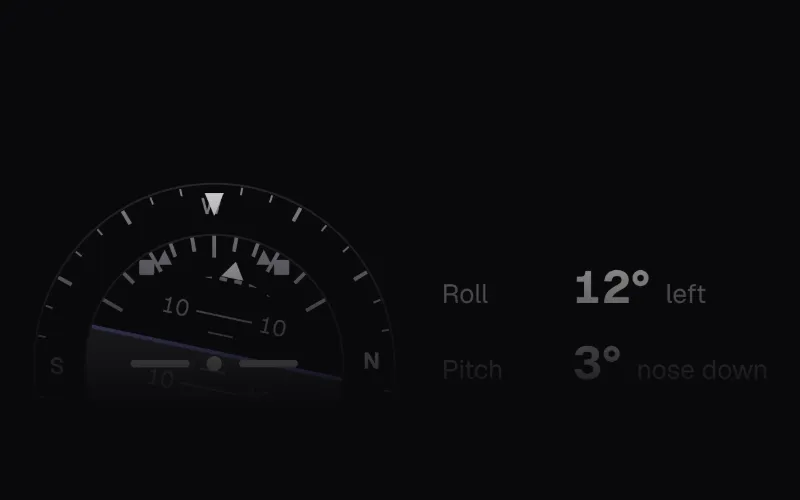
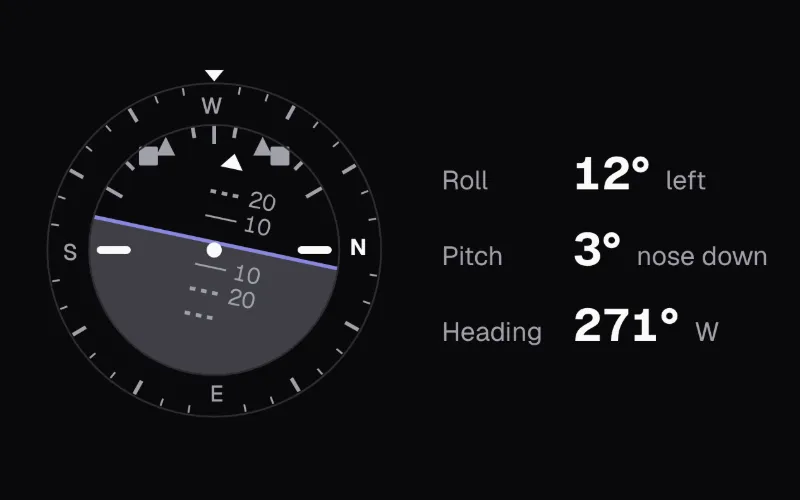
fix(attitude): clean up the attitude indicator's drawing
- Pitch ladder: rungs every 10°, numbers only on ±10 and ±20, past each
  rung's right end so they never lie on a line; no 5° ticks. The ladder sits
  on its own inner disc, clipped in the frame's coordinates, clear of the bank
  scale; the robot's wings moved out to the ring between the ladder and the
  disc's edge, so no rung or number runs under them. Pitch limits are dashed
  rungs that take the tone's colour once crossed (no mark on the sliding
  ladder, where the disc would cut it).
- Heading: the fixed mark sits above the compass ring, and the letters sit
  inside the ticks, so the letter under the mark is never covered.
- Bank limits: the kit's triangle and square at 10 px (12 px at lg) on the
  disc's edge, grey until crossed; bank ticks within 7° of a limit make way.
- AttitudeDefault takes args (roll, pitch, heading, size), so any pose can be
  opened from the URL to check the drawing.

Claude-Session: https://claude.ai/code/session_01UjpnacZoWQW5a3YFwQexEH

diff --git a/registry/syncrobotic/ui/attitude.tsx b/registry/syncrobotic/ui/attitude.tsx
@@ -410,10 +410,31 @@ export type AttitudeIndicatorProps = {
 type AttitudeReading = { roll: number | undefined; pitch: number | undefined; heading: number | undefined }
 
 const INSTRUMENT_PX = { md: 192, lg: 256 } as const
-/** Pitch shown either side of the horizon's centre: the disc's radius is this many degrees. */
-const PITCH_SPAN = 35
 const ROLL_TICKS = [-60, -45, -30, -20, -10, 0, 10, 20, 30, 45, 60]
-const LADDER = [-80, -70, -60, -50, -40, -30, -20, -10, -5, 5, 10, 20, 30, 40, 50, 60, 70, 80]
+/** Rungs every 10°; only ±10 and ±20 carry a number, the ones read most. */
+const LADDER = [-80, -70, -60, -50, -40, -30, -20, -10, 10, 20, 30, 40, 50, 60, 70, 80]
+const LADDER_LABELLED = new Set([-20, -10, 10, 20])
+/** A bank tick this close to a limit gives the limit's mark its room. */
+const TICK_CLEARANCE = 7
+
+/**
+ * The instrument's geometry in CSS pixels, from the outside in (md: c 96, R 66, ladder 42):
+ * 8 px for the heading mark above the ring; the compass ring (ticks, then the letters inside them); the horizon disc,
+ * whose outer 24 px hold the bank scale, its limit marks and pointer, and the robot's wings; and the ladder's disc inside
+ * that, where the pitch rungs and their numbers live. `k` is px per degree of pitch, so the ±20° rungs and their numbers
+ * fit inside the ladder's disc when level.
+ */
+function instrumentGeometry(size: keyof typeof INSTRUMENT_PX) {
+  const px = INSTRUMENT_PX[size]
+  const c = px / 2
+  const ring = c - 8
+  const R = c - 30
+  const ladder = R - 24
+  // The limit marks on the bank scale, about the kit's 12 px status glyph: big enough to read, placed on the disc's edge so a
+  // warning and a critical limit 10° apart (the patrol dog's 25° and 35°) stay two shapes at md.
+  const mark = size === "lg" ? 12 : 10
+  return { px, c, ring, R, ladder, k: ladder / 32, mark }
+}
 
 const axisTone = (v: number | undefined, limit: AttitudeLimit | undefined): MeterTone =>
   v === undefined || !limit ? "normal" : meterTone(Math.abs(v), { low: limit.warning, critical: limit.critical, higherIsWorse: true })
@@ -491,7 +512,7 @@ export function AttitudeIndicator({
   const svgRef = React.useRef<SVGSVGElement>(null)
   const compassG = React.useRef<SVGGElement>(null)
   React.useEffect(() => {
-    const k = (INSTRUMENT_PX[size] / 2 - 28) / PITCH_SPAN
+    const { k } = instrumentGeometry(size)
     const draw = (v: AttitudeReading) => {
       const svg = svgRef.current
       if (!svg) return
@@ -552,12 +573,10 @@ export function AttitudeIndicator({
   const staleText = stale ? `${l.stale}, ${l.lastUpdate(l.formatTime(new Date(stale.at), timeLocale))}` : ""
 
   // The drawing's geometry, in CSS pixels (the viewBox is the instrument's own size, so text is drawn at 12 px).
-  const px = INSTRUMENT_PX[size]
-  const c = px / 2
-  const R = c - 28
-  const k = R / PITCH_SPAN
+  const { px, c, ring, R, ladder, k, mark } = instrumentGeometry(size)
   const rollLimit = limits?.roll
   const pitchLimit = limits?.pitch
+  const rollMarks = [rollLimit?.warning, rollLimit?.critical].filter((v) => v !== undefined)
   // The drawing's transforms come from the props only: a pushed reading is drawn by the engine, and React leaves an
   // attribute alone while the prop behind it does not change, so the two never fight.
   const headingShown = heading ?? shown.heading
@@ -585,38 +604,35 @@ export function AttitudeIndicator({
         data-slot="attitude-instrument"
         className={cn("shrink-0", size === "lg" ? "size-64" : "size-48", stale && "opacity-50")}
       >
-        <svg ref={svgRef} aria-hidden="true" viewBox={`${-c} ${-c} ${px} ${px}`} className="size-full overflow-visible">
-          <Horizon
-            R={R}
-            k={k}
-            roll={roll}
-            pitch={pitch}
-            rollTone={rollTone}
-            pitchTone={pitchTone}
-            pitchLimit={pitchLimit}
-            locale={locale}
-          />
-          {/* The bank scale, fixed to the frame: the pointer on the horizon turns against it. Limits are the kit's status
-              shapes (a triangle for warning, a square for critical), coloured once the roll is past them. */}
+        <svg ref={svgRef} aria-hidden="true" viewBox={`${-c} ${-c} ${px} ${px}`} className="size-full">
+          <Horizon R={R} ladder={ladder} k={k} roll={roll} pitch={pitch} rollTone={rollTone} pitchTone={pitchTone} pitchLimit={pitchLimit} locale={locale} />
+          {/* The bank scale, fixed to the frame: the pointer on the horizon turns against it. Its limits are the kit's status
+              shapes at the glyph's size (a triangle for warning, a square for critical), grey until the roll is past them;
+              the ticks nearest a limit give it room. */}
           <g data-slot="attitude-roll-scale">
-            {ROLL_TICKS.filter((a) => !rollLimit || (Math.abs(a) !== rollLimit.warning && Math.abs(a) !== rollLimit.critical)).map((a) => {
+            {ROLL_TICKS.filter((a) => !rollMarks.some((m) => Math.abs(Math.abs(a) - m) < TICK_CLEARANCE)).map((a) => {
               const major = a % 30 === 0
               const p1 = polar(a, R)
-              const p2 = polar(a, R - (major ? 12 : 8))
+              const p2 = polar(a, R - (major ? 10 : 6))
               return <line key={a} x1={p1.x} y1={p1.y} x2={p2.x} y2={p2.y} strokeWidth={2} className="stroke-muted-foreground" />
             })}
-            {rollLimit?.warning !== undefined &&
-              [-1, 1].map((s) => {
-                const p = polar(s * rollLimit.warning!, R - 6)
-                return <LimitMark key={`w${s}`} x={p.x} y={p.y} kind="warning" on={rollTone !== "normal"} />
-              })}
-            {rollLimit?.critical !== undefined &&
-              [-1, 1].map((s) => {
-                const p = polar(s * rollLimit.critical!, R - 6)
-                return <LimitMark key={`c${s}`} x={p.x} y={p.y} kind="danger" on={rollTone === "danger"} />
-              })}
+            {(
+              [
+                ["warning", rollLimit?.warning],
+                ["danger", rollLimit?.critical],
+              ] as const
+            ).map(([kind, v]) =>
+              v === undefined
+                ? null
+                : [-1, 1].map((s) => {
+                    const p = polar(s * v, R - mark / 2 - 0.5)
+                    const on = kind === "danger" ? rollTone === "danger" : rollTone !== "normal"
+                    return <LimitMark key={`${kind}${s}`} x={p.x} y={p.y} kind={kind} on={on} size={mark} />
+                  }),
+            )}
           </g>
-          {/* The robot, fixed: wings and a centre dot in the ink, in the tone's colour past a limit. */}
+          {/* The robot, fixed: a centre dot and wings in the ring between the ladder and the disc's edge, so no rung or
+              number ever runs under them. In the ink, in the tone's colour past a limit. */}
           <g
             data-slot="attitude-robot"
             className={cn("stroke-foreground", worst === "warning" && "stroke-warning", worst === "danger" && "stroke-danger")}
@@ -624,12 +640,13 @@ export function AttitudeIndicator({
             strokeLinecap="round"
             fill="none"
           >
-            <path d={`M${-R * 0.62} 0H${-R * 0.22}M${R * 0.22} 0H${R * 0.62}`} />
+            <path d={`M${-(R - 6)} 0H${-(ladder + 4)}M${ladder + 4} 0H${R - 6}`} />
             <circle r={2} />
           </g>
-          {/* The compass ring: the card turns so the heading is under the mark at the top. */}
-          <circle r={c - 1} fill="none" strokeWidth={1} className="stroke-border" />
           <circle r={R} fill="none" strokeWidth={1} className="stroke-border" />
+          {/* The compass ring: the card turns so the heading is under the mark above the ring; the letters sit inside the
+              ticks and turn back to stay upright, and the mark never covers one. */}
+          <circle r={ring} fill="none" strokeWidth={1} className="stroke-border" />
           <g
             ref={compassG}
             data-slot="attitude-compass"
@@ -638,12 +655,12 @@ export function AttitudeIndicator({
           >
             {Array.from({ length: 36 }, (_, i) => i * 10).map((a) => {
               if (a % 90 === 0) return null
-              const p1 = polar(a, c - 2)
-              const p2 = polar(a, c - (a % 30 === 0 ? 10 : 6))
+              const p1 = polar(a, ring - 1)
+              const p2 = polar(a, ring - (a % 30 === 0 ? 9 : 5))
               return <line key={a} x1={p1.x} y1={p1.y} x2={p2.x} y2={p2.y} strokeWidth={a % 30 === 0 ? 2 : 1} className="stroke-muted-foreground" />
             })}
             {cardinal.map((name, i) => {
-              const p = polar(i * 90, c - 13)
+              const p = polar(i * 90, ring - 12)
               return (
                 <text
                   key={i}
@@ -662,7 +679,7 @@ export function AttitudeIndicator({
           </g>
           <path
             data-slot="attitude-lubber"
-            d={`M0 ${-(c - 18)}L5 ${-(c - 6)}H-5Z`}
+            d={`M0 ${-(ring + 1)}L5 ${-(c - 1)}H-5Z`}
             visibility={headingShown === undefined ? "hidden" : undefined}
             className="fill-foreground"
           />
@@ -700,11 +717,13 @@ export function AttitudeIndicator({
 
 /**
  * The moving part, in two layers that turn and slide together: the ground and the horizon line on the whole disc, with the
- * bank pointer; and the pitch ladder with its limit lines on a smaller disc inside it, so the ladder never runs into the
- * bank scale. Each layer is clipped in the frame's coordinates, outside its own transforms.
+ * bank pointer; and the pitch ladder with its limit lines on a smaller disc inside it, clear of the bank scale and the
+ * robot's wings. Each layer is clipped in the frame's coordinates, outside its own transforms. A rung's number sits past
+ * its right end, so it never lies on a line, and a pitch limit is a dashed rung.
  */
 function Horizon({
   R,
+  ladder,
   k,
   roll,
   pitch,
@@ -714,6 +733,7 @@ function Horizon({
   locale,
 }: {
   R: number
+  ladder: number
   k: number
   roll: number | undefined
   pitch: number | undefined
@@ -729,6 +749,8 @@ function Horizon({
   const far = R * 6
   const rollAt = `rotate(${-(roll ?? 0)})`
   const pitchAt = `translate(0 ${-clampPitch(pitch ?? 0) * k})`
+  const w = ladder * 0.2
+  const limitsAt = [pitchLimit?.warning, pitchLimit?.critical]
   return (
     <>
       <defs>
@@ -736,7 +758,7 @@ function Horizon({
           <circle r={R} />
         </clipPath>
         <clipPath id={inner}>
-          <circle r={R - 22} />
+          <circle r={ladder} />
         </clipPath>
       </defs>
       <g clipPath={`url(#${disc})`}>
@@ -747,10 +769,10 @@ function Horizon({
             {/* The horizon: the one accent, the mark to read. */}
             <line data-slot="attitude-horizon" x1={-far} x2={far} y1={0} y2={0} strokeWidth={2} style={{ stroke: "var(--chart-1)" }} />
           </g>
-          {/* The bank pointer turns with the horizon and points at the scale. */}
+          {/* The bank pointer turns with the horizon and points at the scale, inside the limit marks. */}
           <path
             data-slot="attitude-roll-pointer"
-            d={`M0 ${-(R - 13)}L6 ${-(R - 22)}H-6Z`}
+            d={`M0 ${-(R - 14)}L6 ${-(R - 22)}H-6Z`}
             className={cn("fill-foreground", rollTone === "warning" && "fill-warning", rollTone === "danger" && "fill-danger")}
           />
         </g>
@@ -759,29 +781,21 @@ function Horizon({
         <g data-slot="attitude-roll-layer" transform={rollAt}>
           <g data-slot="attitude-pitch-layer" transform={pitchAt}>
             {LADDER.map((p) => {
-              const ten = p % 10 === 0
-              const w = R * (ten ? 0.22 : 0.1)
               const y = -p * k
               return (
-                <g key={p}>
+                <g key={p} data-slot="attitude-rung">
                   {/* A limit draws its own dashed line here instead. */}
-                  {Math.abs(p) !== pitchLimit?.warning && Math.abs(p) !== pitchLimit?.critical && (
-                    <line x1={-w} x2={w} y1={y} y2={y} strokeWidth={1} className="stroke-muted-foreground" />
-                  )}
-                  {ten && (
-                    <>
-                      <text x={-w - 4} y={y} textAnchor="end" dominantBaseline="central" className="fill-muted-foreground text-xs tabular-nums">
-                        {formatReading(Math.abs(p), 0, locale)}
-                      </text>
-                      <text x={w + 4} y={y} textAnchor="start" dominantBaseline="central" className="fill-muted-foreground text-xs tabular-nums">
-                        {formatReading(Math.abs(p), 0, locale)}
-                      </text>
-                    </>
+                  {!limitsAt.includes(Math.abs(p)) && <line x1={-w} x2={w} y1={y} y2={y} strokeWidth={1} className="stroke-muted-foreground" />}
+                  {LADDER_LABELLED.has(p) && (
+                    <text x={w + 4} y={y} textAnchor="start" dominantBaseline="central" className="fill-muted-foreground text-xs tabular-nums">
+                      {formatReading(Math.abs(p), 0, locale)}
+                    </text>
                   )}
                 </g>
               )
             })}
-            {/* Pitch limits: dashed lines across the ladder, as a chart draws its limits, with the status shape at the end. */}
+            {/* Pitch limits: dashed rungs, as a chart draws its limits, in the tone's colour once crossed. No mark: on a
+                ladder that slides, a shape at the rung's end is cut by the disc or crowds the centre; the readout says it. */}
             {(
               [
                 ["warning", pitchLimit?.warning],
@@ -794,17 +808,16 @@ function Horizon({
                     const y = -s * v * k
                     const on = kind === "danger" ? pitchTone === "danger" : pitchTone !== "normal"
                     return (
-                      <g key={`${kind}${s}`}>
+                      <g key={`${kind}${s}`} data-slot="attitude-pitch-limit">
                         <line
-                          x1={-R * 0.45}
-                          x2={R * 0.45}
+                          x1={-w}
+                          x2={w}
                           y1={y}
                           y2={y}
                           strokeWidth={2}
-                          strokeDasharray="4 4"
+                          strokeDasharray="3 3"
                           className={cn("stroke-muted-foreground", on && (kind === "danger" ? "stroke-danger" : "stroke-warning"))}
                         />
-                        <LimitMark x={R * 0.45 + 6} y={y} kind={kind} on={on} />
                       </g>
                     )
                   }),

diff --git a/stories/attitude.stories.tsx b/stories/attitude.stories.tsx
@@ -20,8 +20,12 @@ const animate = () =>
 const dogLimits: AttitudeLimits = { roll: { warning: 25, critical: 35 }, pitch: { warning: 20, critical: 30 } }
 
 /** Level enough: 12° to the left, nose 3° down, heading west. Every value is written beside the drawing. */
-export const AttitudeDefault: S = {
-  render: () => <AttitudeIndicator label="Attitude, Patrol dog 7F3A" roll={-12} pitch={3} heading={271} limits={dogLimits} />,
+export const AttitudeDefault: StoryObj<{ roll: number; pitch: number; heading: number; size: "md" | "lg" }> = {
+  // Args, so any pose can be opened from the URL (…&args=roll:-27;pitch:15;size:lg) to check the drawing at it.
+  args: { roll: -12, pitch: 3, heading: 271, size: "md" },
+  render: ({ roll, pitch, heading, size }) => (
+    <AttitudeIndicator label="Attitude, Patrol dog 7F3A" roll={Number(roll)} pitch={Number(pitch)} heading={Number(heading)} size={size} limits={dogLimits} />
+  ),
 }
 
 /** Past the 25° roll warning: the value, the bank pointer, the robot's symbol and the limit's triangle turn warning, and say so. */
